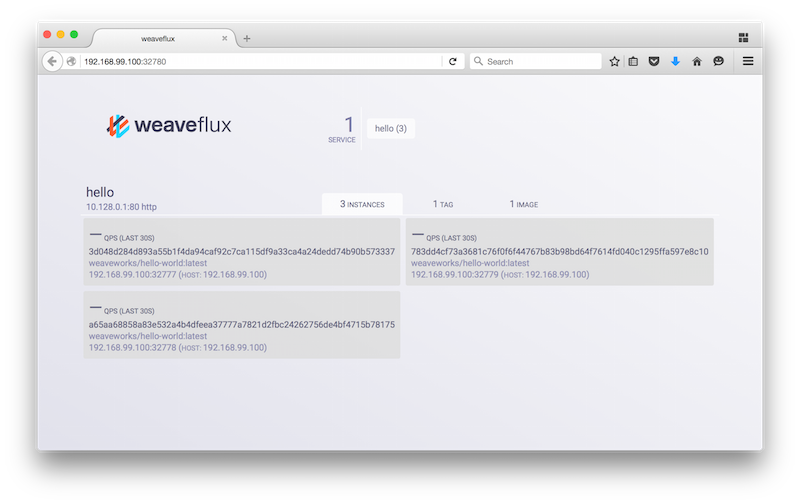
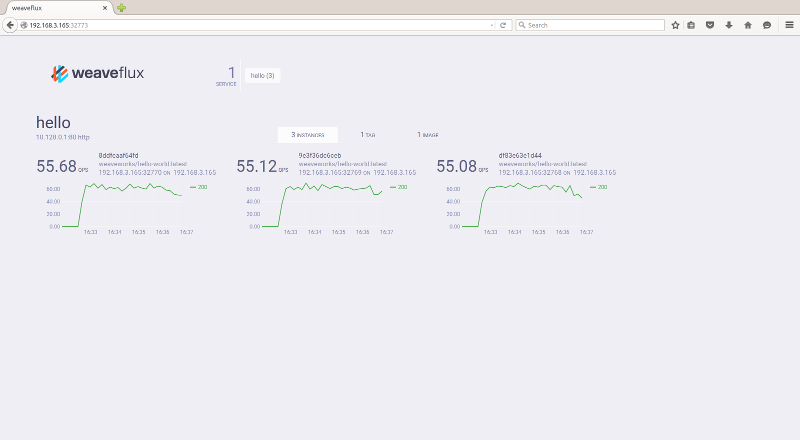
Redo examples for getting started guide

diff --git a/site/getstarted.md b/site/getstarted.md
@@ -37,7 +37,7 @@ $ docker run --name=etcd -d -p $HOST_IP:2379:2379 quay.io/coreos/etcd \
        --listen-client-urls http://0.0.0.0:2379 \
        --advertise-client-urls=http://localhost:2379
 # ...
-$ export ETCD_ADDRESS=http://$(docker port etcd 2379)
+$ export ETCD_ADDRESS=http://$HOST_IP:2379
 
 # And run our pre-baked image of Prometheus
 $ docker run --name=prometheus -d -e ETCD_ADDRESS -p $HOST_IP::9090 \
@@ -71,7 +71,7 @@ $ docker run --name=fluxd -d -e ETCD_ADDRESS \
        --listen-prometheus=:9000 --advertise-prometheus=$HOST_IP:9000
 ```
 
-Briefly, the puropse of these options is as follows:
+Briefly, the purpose of these options is as follows:
 
 * `-e ETCD_ADDRESS` tells fluxd how to connect to etcd, which is used for
 coordination in flux.
@@ -106,12 +106,15 @@ To try it out, see what `fluxctl info` gives us:
 
 ```sh
 $ fluxctl info
-# nothing ...
+HOSTS
+192.168.3.165
+
+SERVICES
 ```
 
-Nothing -- but since we haven't done anything yet, no errors is all we
-should expect. You can try `fluxctl info` at each stage that follows
-to see how it reports the state of the system.
+Not much there -- but since we haven't done anything yet, no errors is
+all we should expect. You can try `fluxctl info` at each stage that
+follows, to see how it reports the state of the system.
 
 We'll start by creating a service `hello`, which will represent some
 hello-world containers we'll run presently.
@@ -151,9 +154,9 @@ hello
   RULES
     default {"image":"weaveworks/hello-world"}
   INSTANCES
-    ccc5ed490a6a6d7d7ee4381857da752f38d995eb08a9a60f19ec946599d76511 192.168.1.129:32770 live
-    3b84320f7958a7159f0d172b8408bb6953f8dfa49e425708377de34c9a97ee08 192.168.1.129:32771 live
-    eba9d0a13a2d6d735a47f2b4e32ead6f6e15e11400b96b15ab566f325fd0574d 192.168.1.129:32772 live
+    df83e63e1d4488126aaa2cd71af7e73b10da13d5b4e6de54bf94d1889758e10a 192.168.3.165:32768 live
+    9e3f36dc6ceb7e24c2a7f06fed950e613f5c856cd2124935cd9d07b8e3872976 192.168.3.165:32769 live
+    8ddfcaaf64fdf10b47440bba61d0560371828ba49d0cde06d7f8969a77ae9e09 192.168.3.165:32770 live
 ```
 
 Neat. Let's check if we can get an actual web page up.
@@ -179,7 +182,7 @@ $ docker run -p 8080:80 -d -e ETCD_ADDRESS -e SERVICE=hello \
 Now you should be able to see the service by pointing a browser at
 `http://$HOST_IP:8080/`.
 
-![Hello World in a browser](hello-world.png)
+![Hello World in a browser](images/hello-world.png)
 
 ## Starting the web UI
 
